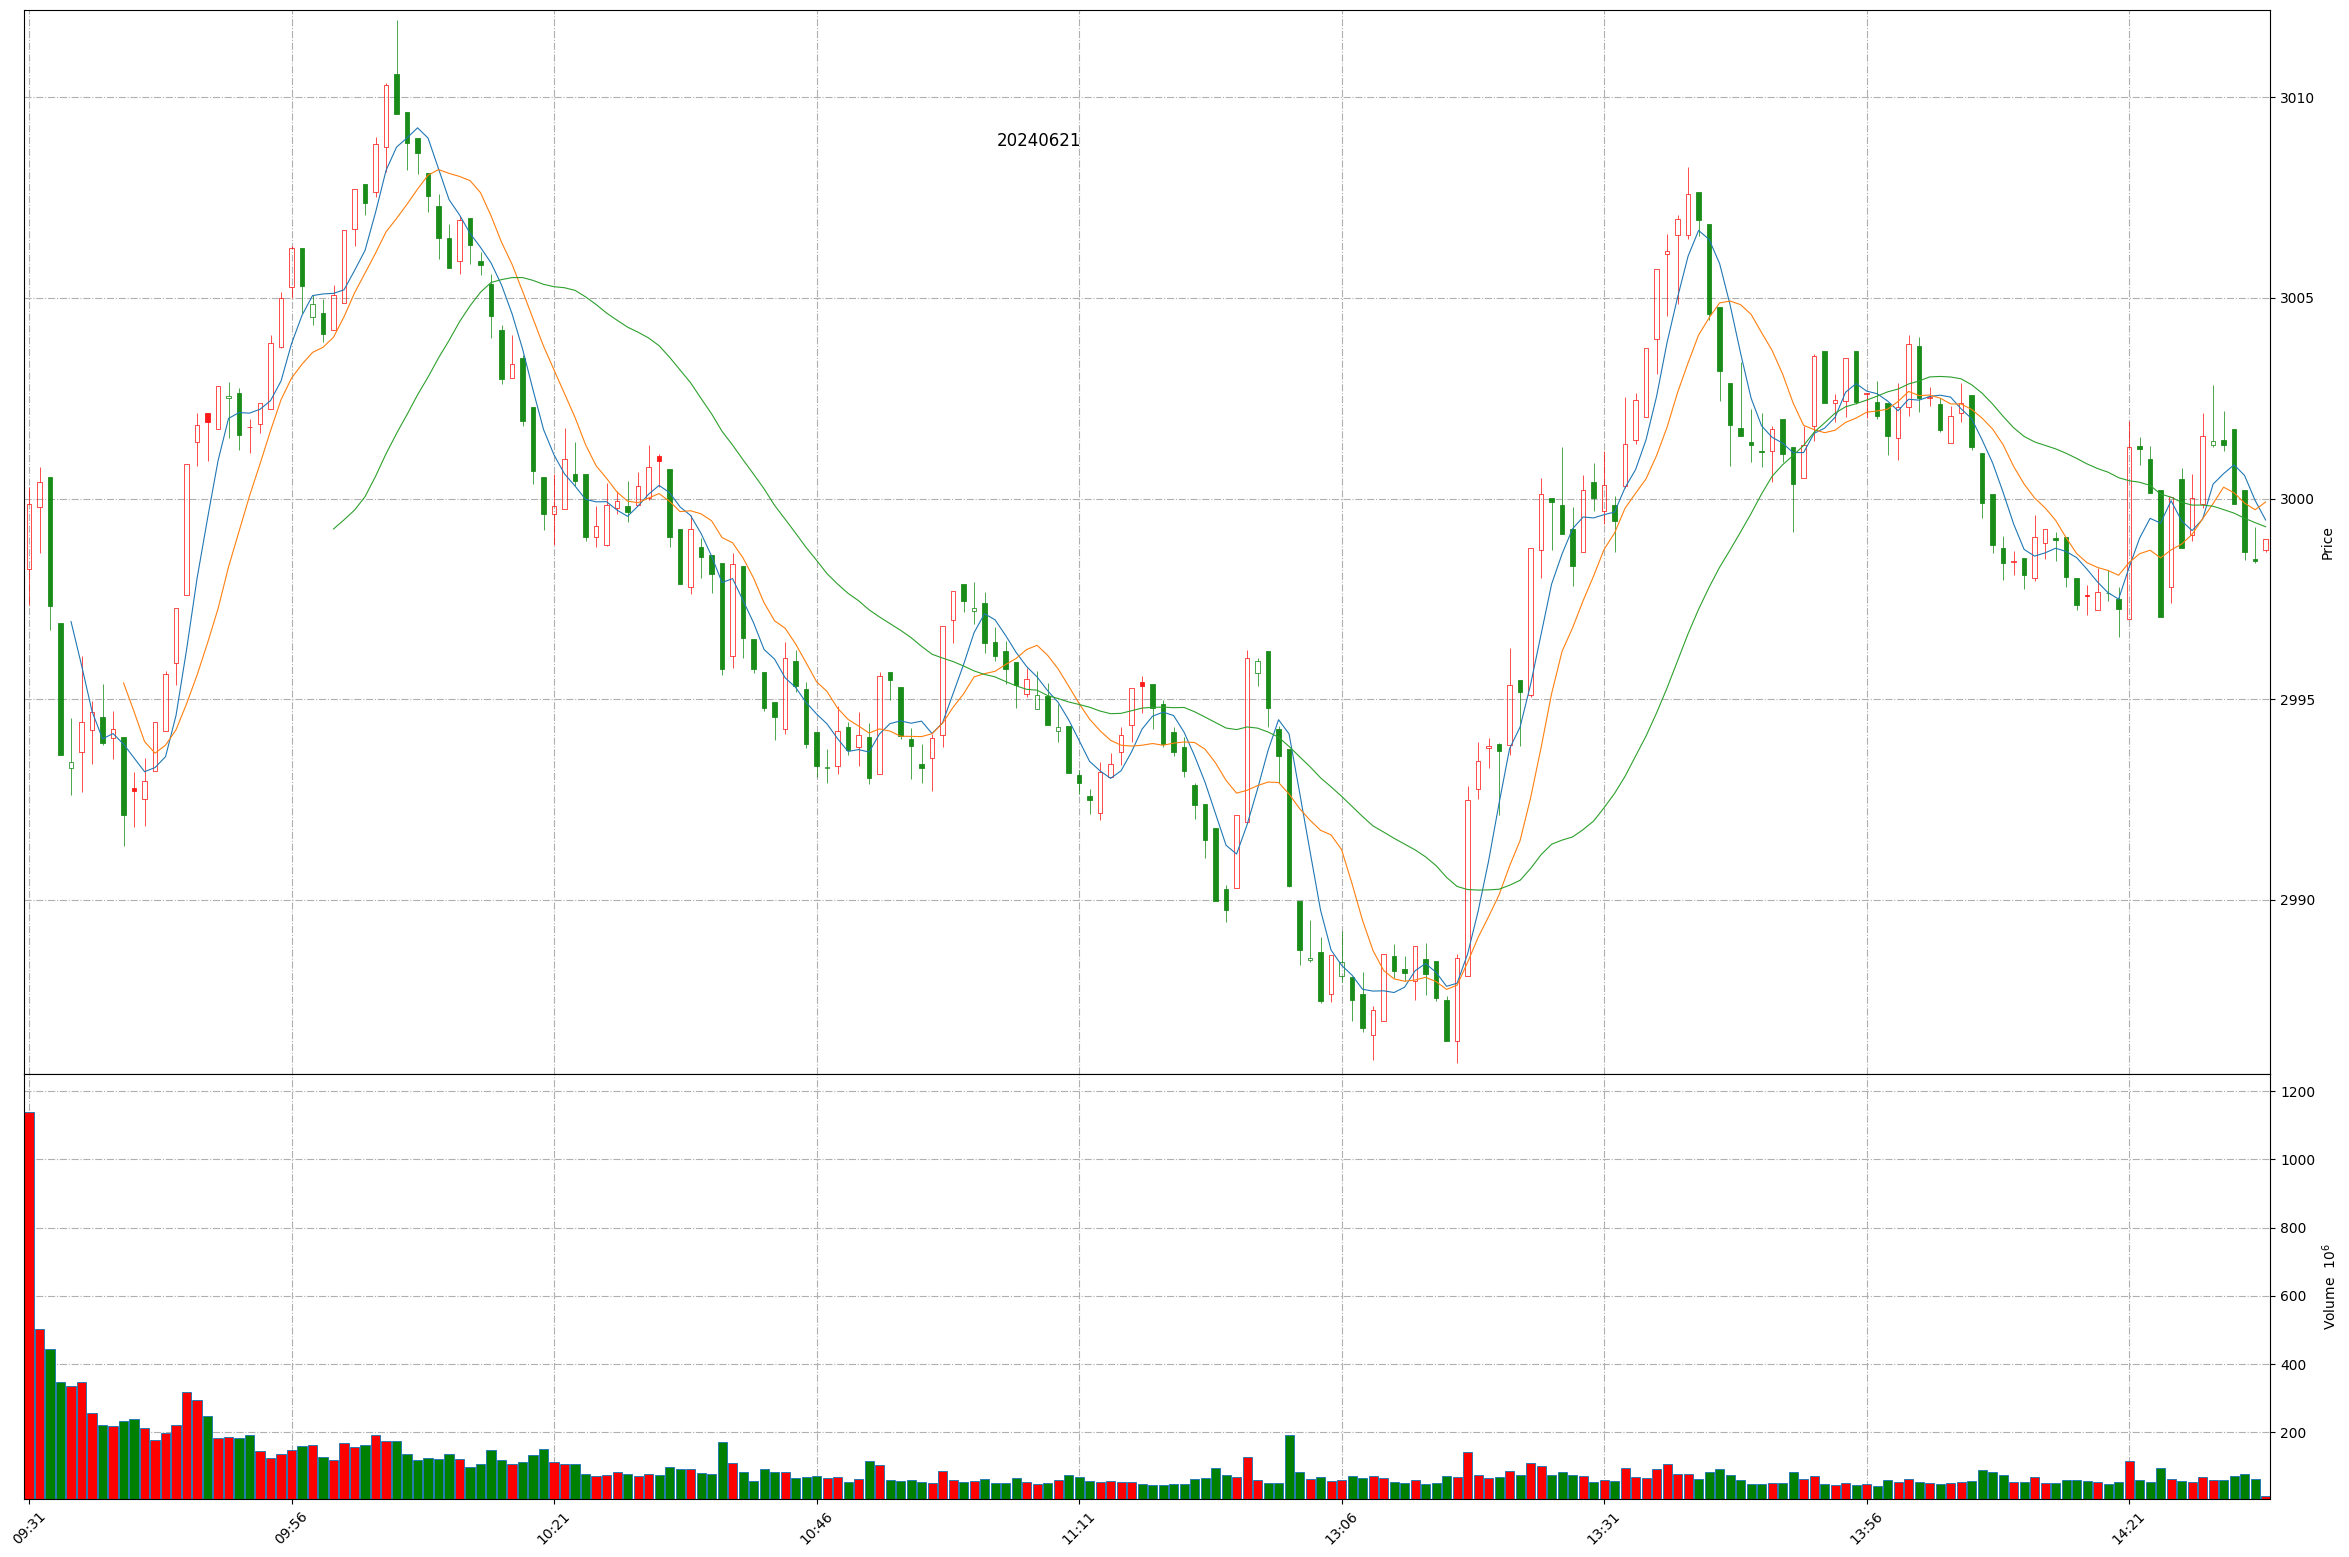
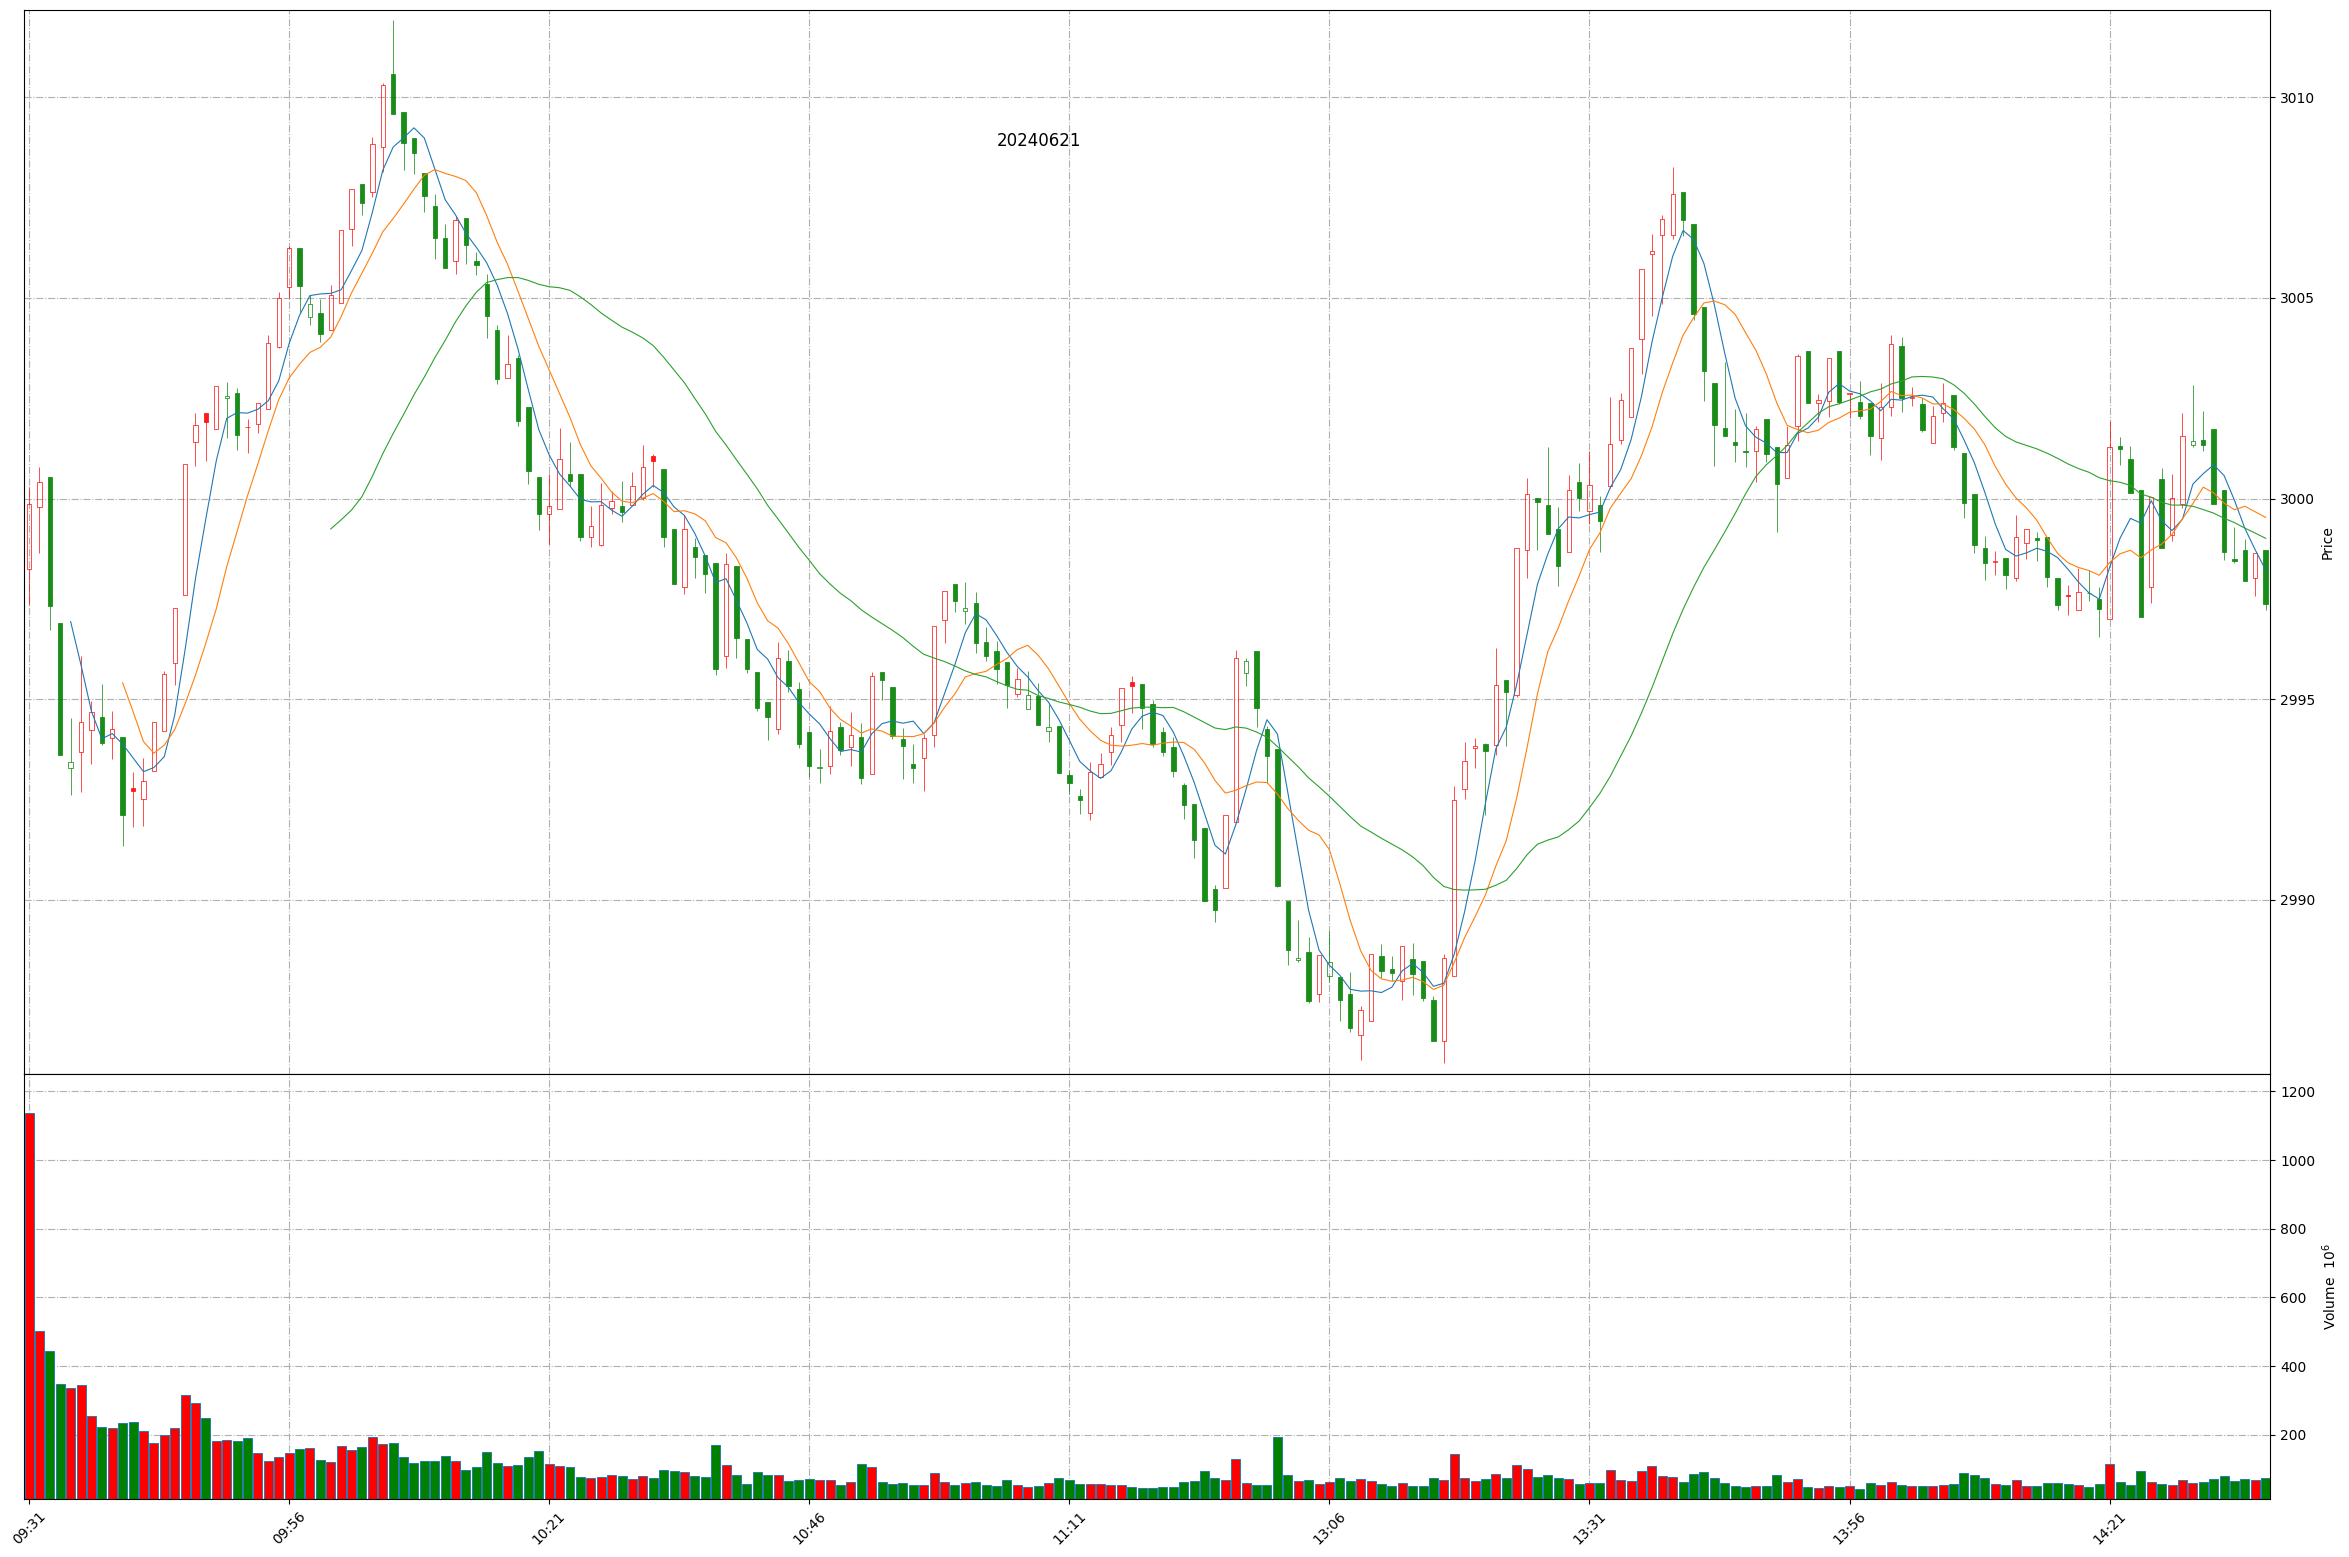
Github action update at 2024-06-21 14:36:09.

diff --git a/README.md b/README.md
@@ -1,11 +1,11 @@
 
 # Daily-A-share-market-quotes 每日 A 股指数（5min 更新）- 20240621
 
-### 上证指数 20240621 14:33
+### 上证指数 20240621 14:36
 ![](./fig/2024/6/20240621-sh000001.png)
 
-### 深证成指 20240621 14:33
+### 深证成指 20240621 14:36
 ![](./fig/2024/6/20240621-sz399001.png)
 
-### 北证50 20240621 14:33
+### 北证50 20240621 14:36
 ![](./fig/2024/6/20240621-bj899050.png)
